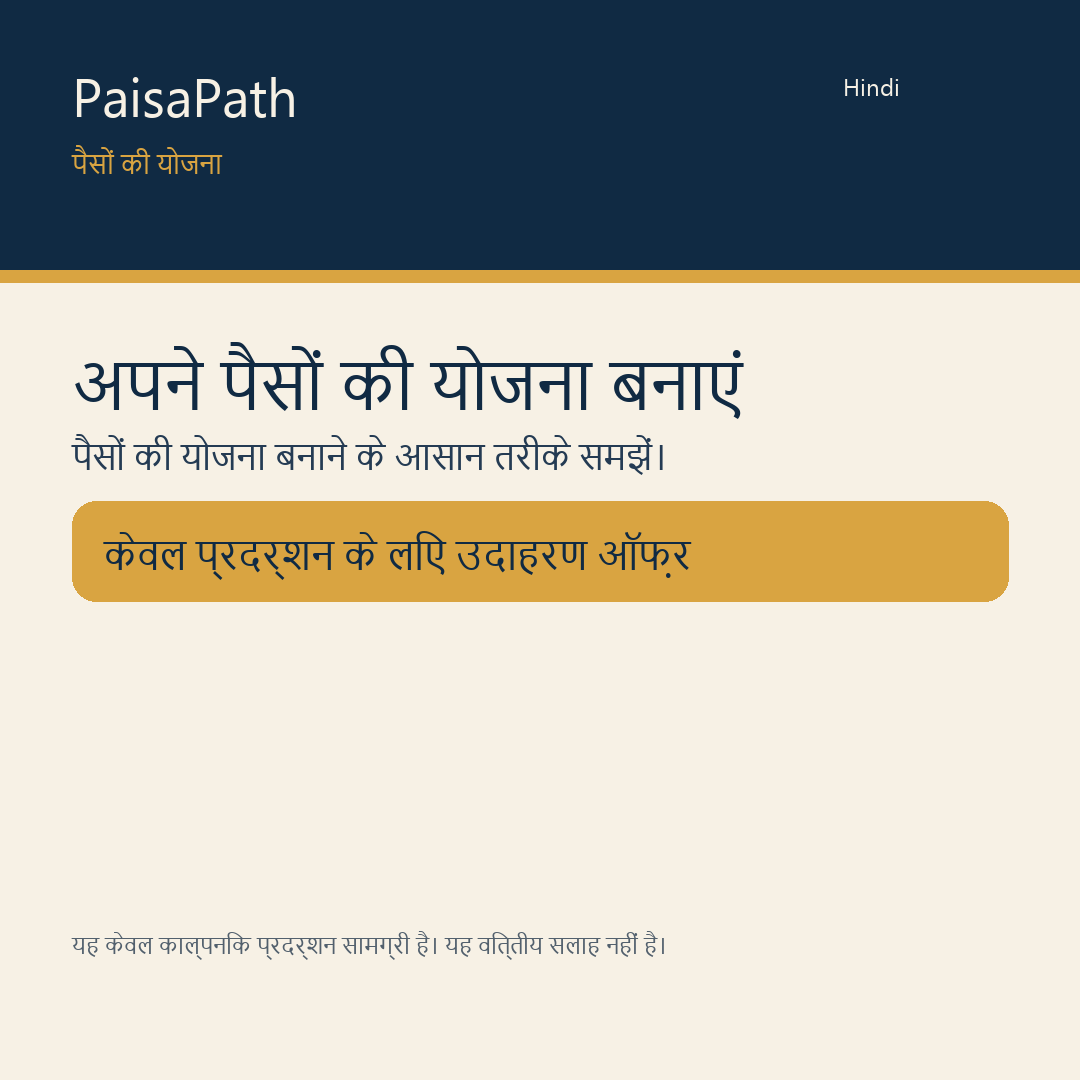
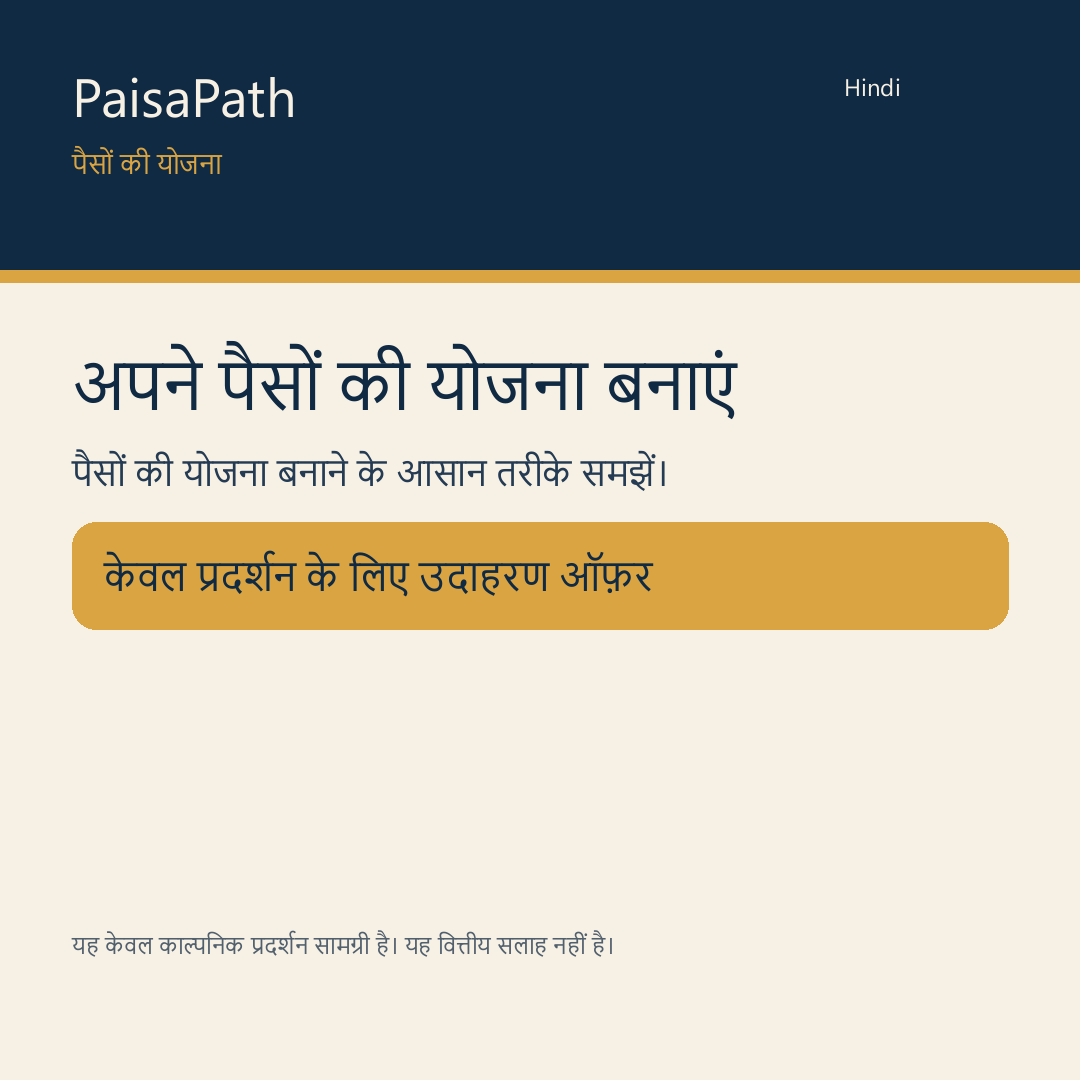
Fix Devanagari rendering and regenerate creatives

diff --git a/tests/test_template_renderer.py b/tests/test_template_renderer.py
@@ -1,7 +1,7 @@
 from pathlib import Path
 
 import pytest
-from PIL import Image
+from PIL import Image, ImageChops
 
 from app.template_renderer import (
     _ShapedFont,
@@ -119,6 +119,22 @@ def test_devanagari_conjunct_is_shaped_to_a_ligature(devanagari_font):
 
 
 @pytest.mark.parametrize(
+    "text",
+    [
+        "क्षि निवेश",
+        "मूलभूत गोष्टी",
+    ],
+)
+def test_devanagari_draw_line_places_glyphs_on_canvas(text, devanagari_font):
+    font = _ShapedFont(devanagari_font, 34)
+    image = Image.new("RGB", (500, 100), "white")
+
+    font.draw_line(image, text, (20, 20), "#102A43")
+
+    assert ImageChops.difference(image, Image.new("RGB", image.size, "white")).getbbox()
+
+
+@pytest.mark.parametrize(
     ("language", "text"),
     [
         ("Hindi", "निवेश की बुनियादी बातें समझें"),
@@ -143,3 +159,8 @@ def test_render_creative_shapes_devanagari_text(
     with Image.open(output_path) as image:
         assert image.size == (1080, 1080)
         assert image.format == "PNG"
+        background = Image.new("RGB", image.size, "#F7F1E5")
+        assert ImageChops.difference(
+            image.crop((72, 340, 1008, 930)),
+            background.crop((72, 340, 1008, 930)),
+        ).getbbox()

diff --git a/app/template_renderer.py b/app/template_renderer.py
@@ -35,7 +35,7 @@ class _ShapedFont:
             )
 
         font_data = font_path.read_bytes()
-        self.face = freetype.Face(str(font_path))
+        self.face = freetype.Face(str(font_path), index=0)
         self.face.set_pixel_sizes(0, size)
         self.hb_face = harfbuzz.Face(font_data, self.face.face_index)
         self.hb_font = harfbuzz.Font(self.hb_face)
@@ -70,7 +70,10 @@ class _ShapedFont:
         baseline = top + self.ascent
         pen_x = float(x)
         for info, glyph_position in zip(infos, positions):
-            self.face.load_glyph(info.codepoint, freetype.FT_LOAD_RENDER)
+            self.face.load_glyph(
+                info.codepoint,
+                freetype.FT_LOAD_RENDER | freetype.FT_LOAD_NO_HINTING,
+            )
             bitmap = self.face.glyph.bitmap
             if bitmap.width and bitmap.rows:
                 bitmap_data = bytes(bitmap.buffer)
